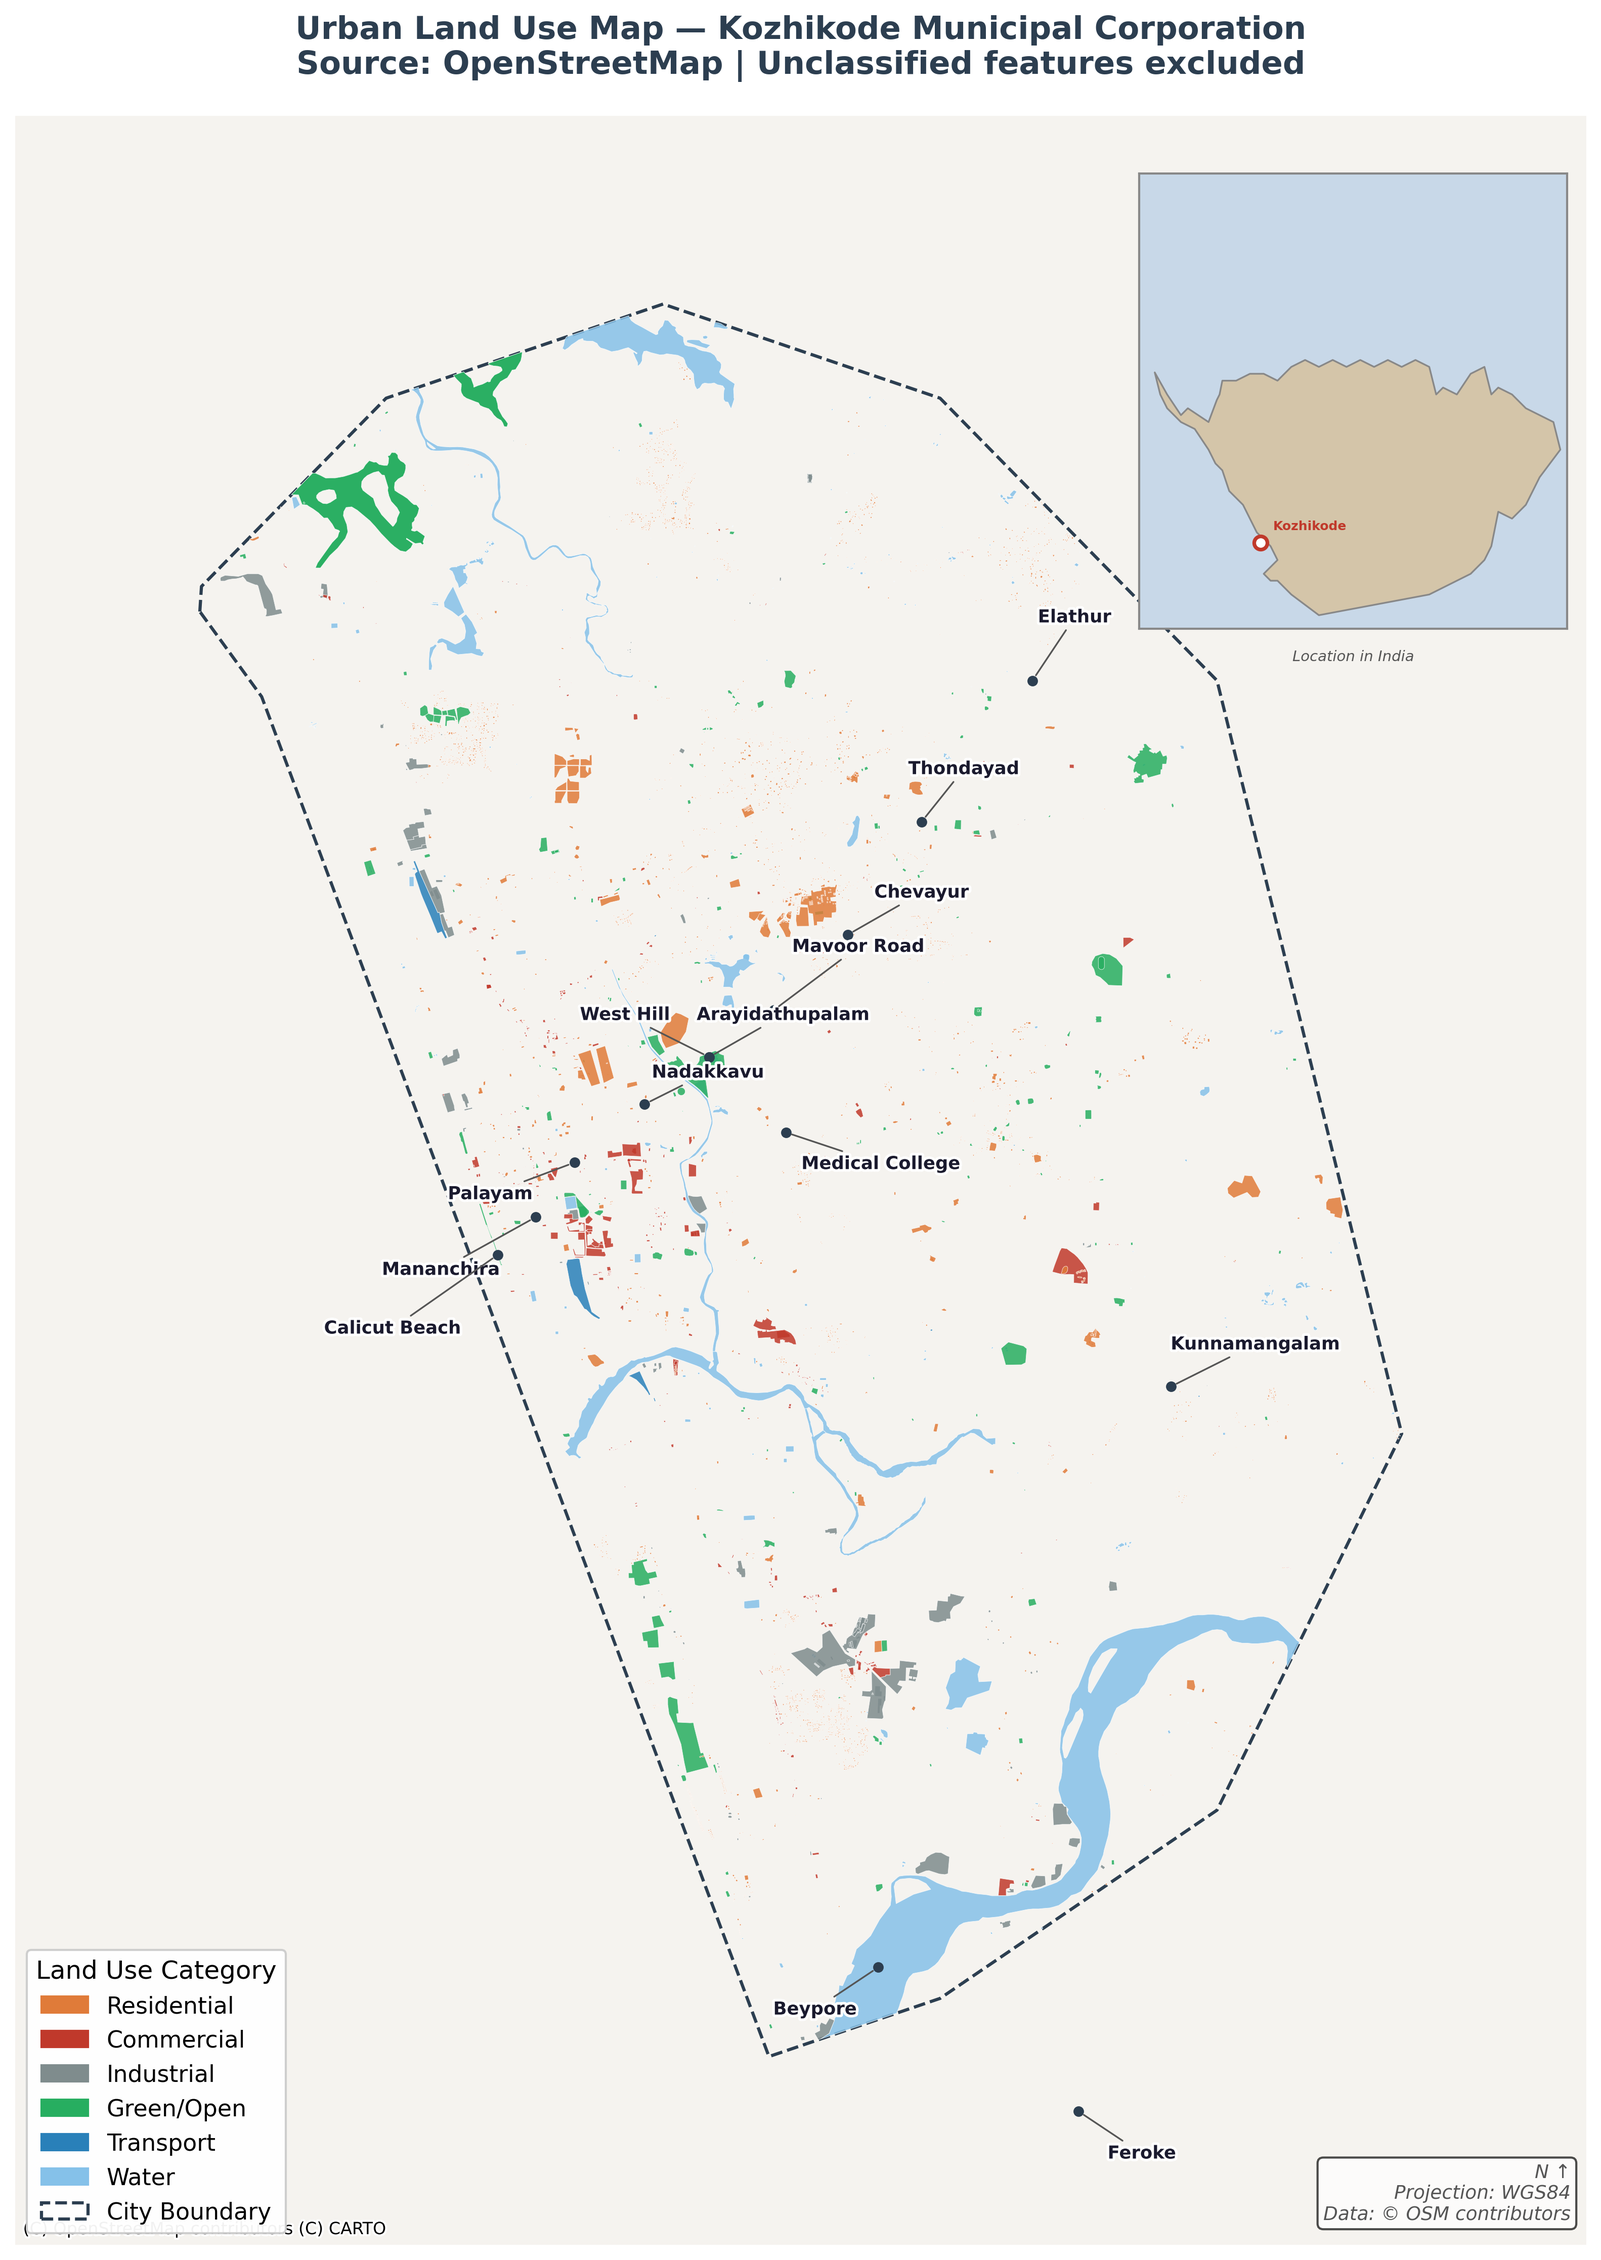
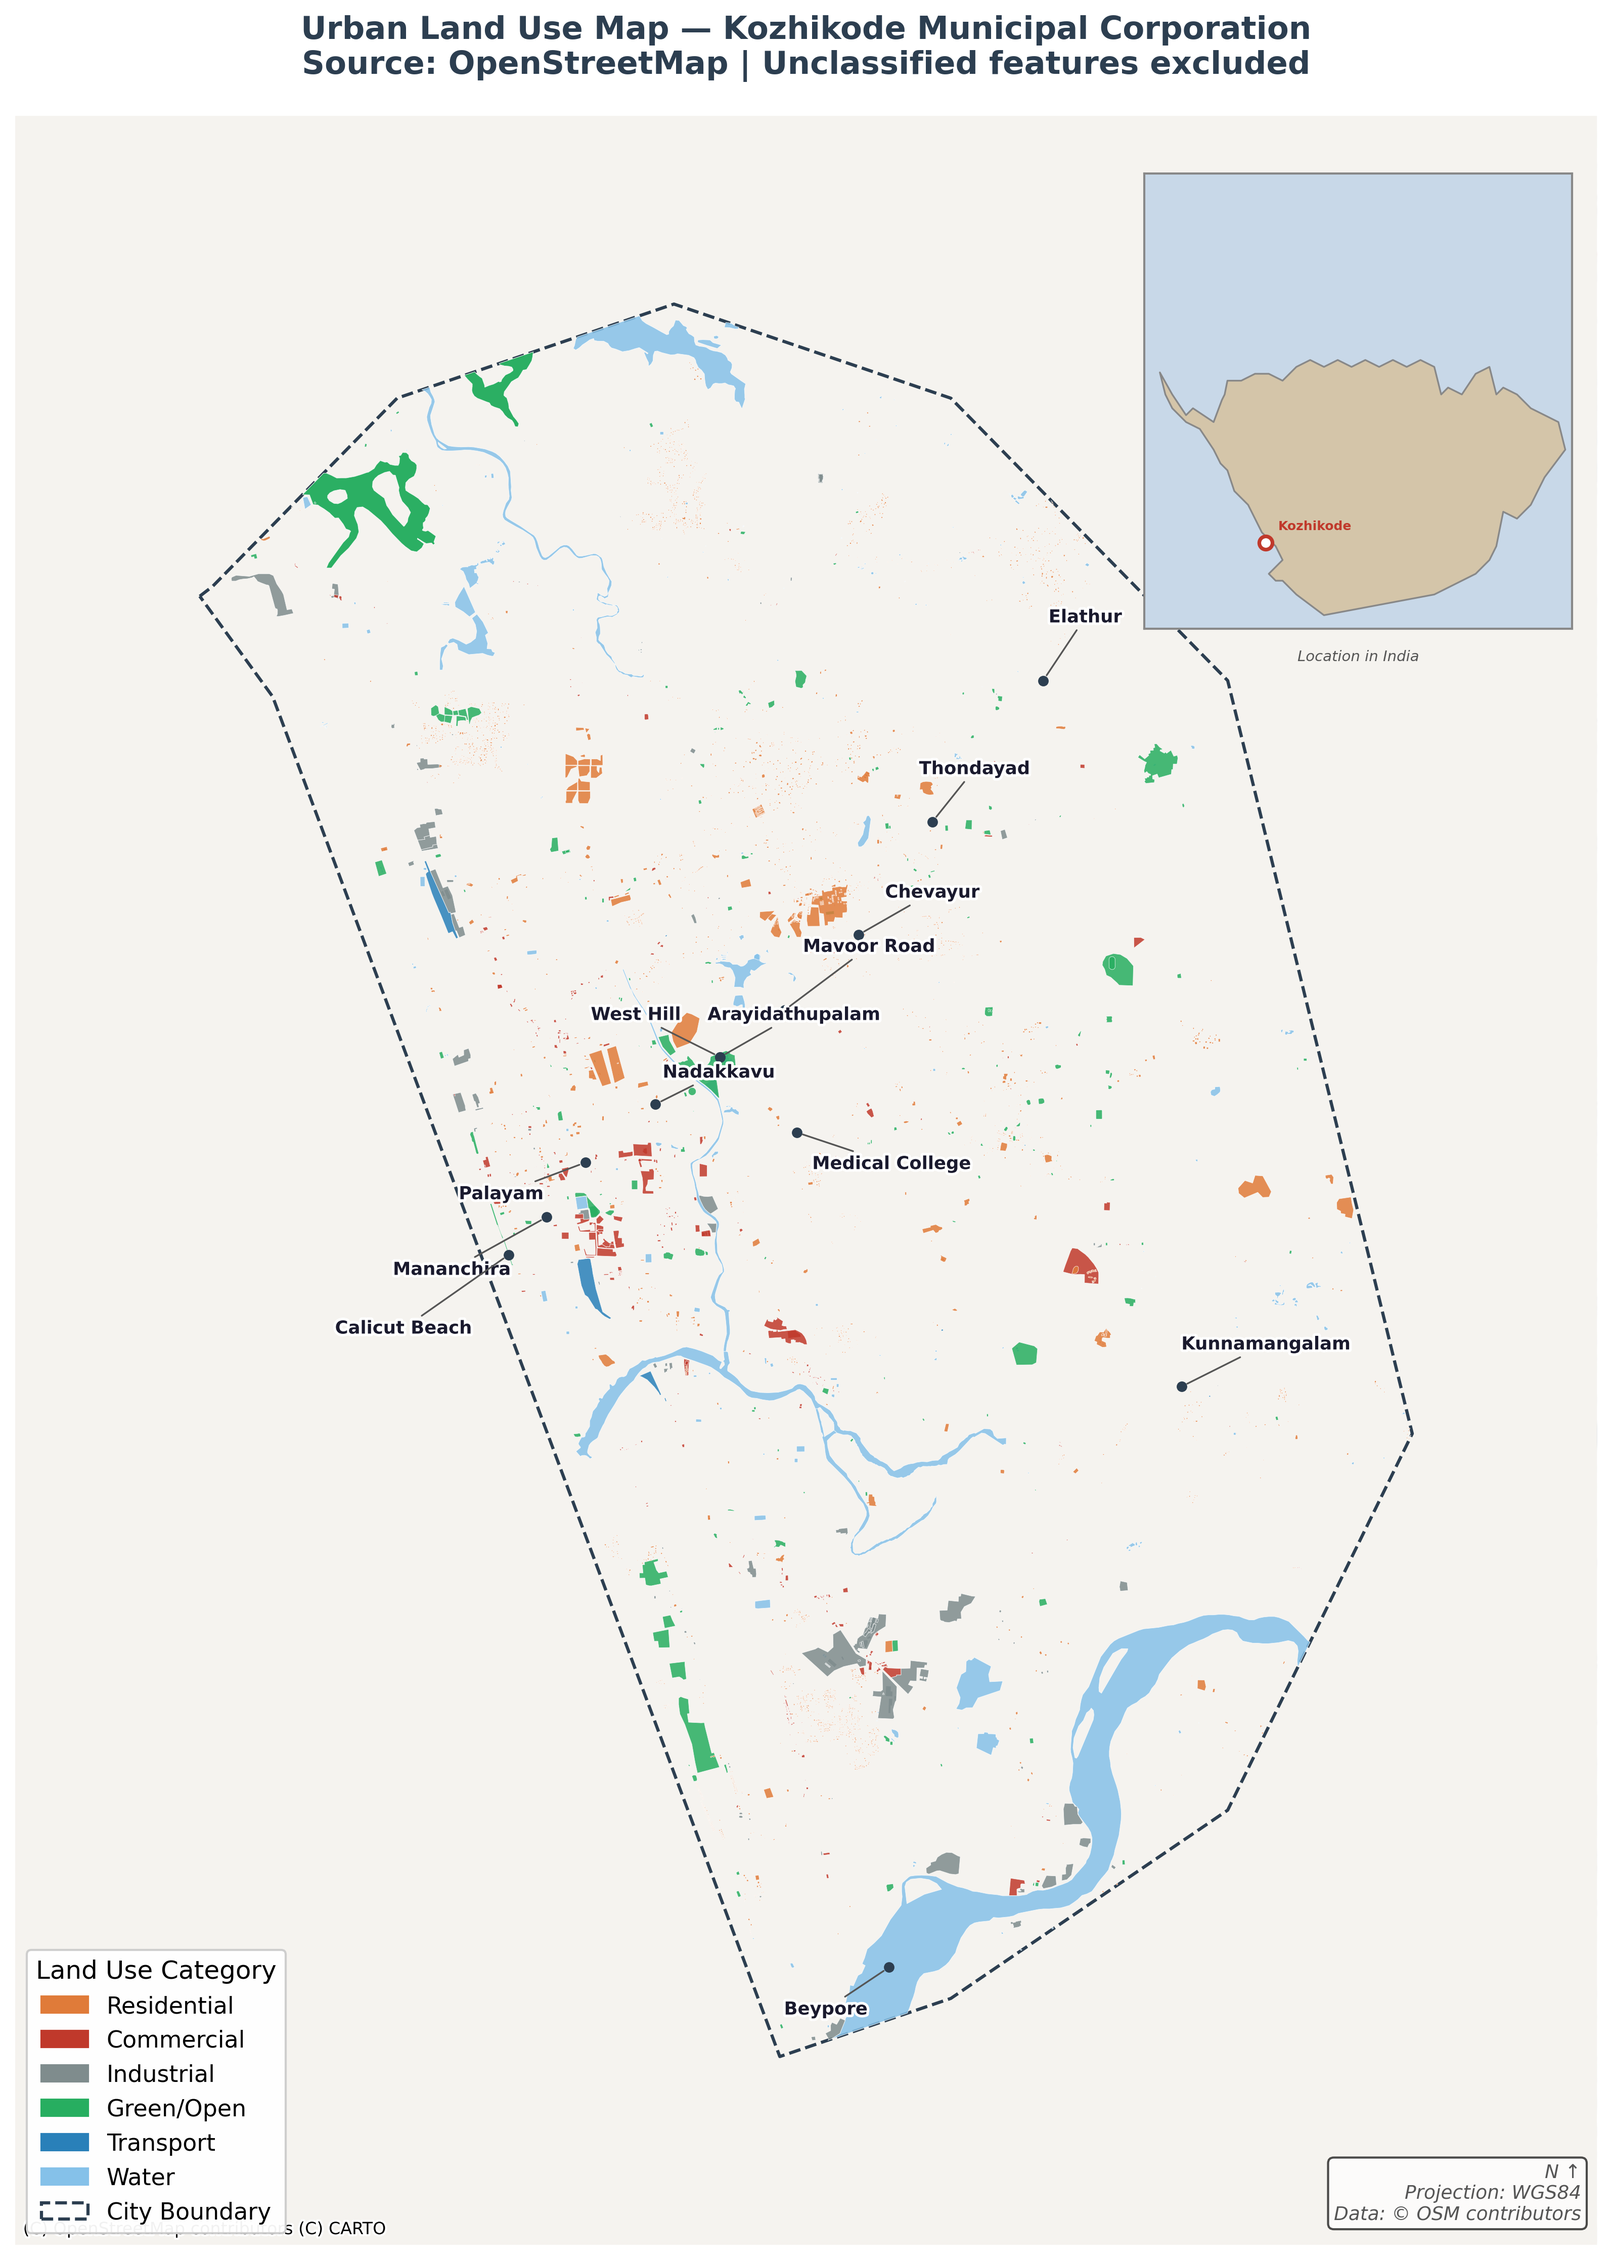
Final commit

diff --git a/Day1_Landuse_Calicut/scripts/map.py b/Day1_Landuse_Calicut/scripts/map.py
@@ -114,22 +114,22 @@ known_places = pd.DataFrame({
         'Palayam', 'Mananchira', 'Calicut Beach', 'Nadakkavu',
         'Arayidathupalam', 'Mavoor Road', 'Medical College',
         'Chevayur', 'Thondayad', 'West Hill', 'Elathur',
-        'Beypore', 'Feroke', 'Kunnamangalam'
+        'Beypore', 'Kunnamangalam'
     ],
     'lon': [
         75.7804, 75.7762, 75.7721, 75.7880,
         75.7950, 75.8020, 75.8033,
         75.8100, 75.8180, 75.7950, 75.8300,
-        75.8133, 75.8350, 75.8450
+        75.8133, 75.8450
     ],
     'lat': [
         11.2588, 11.2530, 11.2490, 11.2650,
         11.2700, 11.2750, 11.2620,
         11.2830, 11.2950, 11.2700, 11.3100,
-        11.1733, 11.1580, 11.2350
+        11.1733, 11.2350
     ],
-    'dx': [-40, -45, -50,  30,  35,  40,  45,  35,  20, -40,  20, -30,  30,  40],
-    'dy': [-15, -25, -35,  15,  20,  30, -15,  20,  25,  20,  30, -20, -20,  20]
+    'dx': [-40, -45, -50,  30,  35,  40,  45,  35,  20, -40,  20, -30,  40],
+    'dy': [-15, -25, -35,  15,  20,  30, -15,  20,  25,  20,  30, -20, 20]
 })
 
 geometry = [Point(xy) for xy in zip(known_places.lon, known_places.lat)]

diff --git a/Day1_Landuse_Calicut/README.md b/Day1_Landuse_Calicut/README.md
@@ -18,12 +18,13 @@ Approx. 118 square kilometers urban area with a population of ~600,000.
 | Ward boundaries      | OSM admin level 8       | Via osmnx                  |
 
 ## Methods
-1. Fetched OSM features (buildings, land use, amenities) using osmnx.features_from_place()
-2. Classified features into 6 categories using tag-based rules
-3. Reprojected to UTM Zone 43N (EPSG:32643) for accurate area calculation
-4. Performed spatial join with ward boundaries
-5. Calculated % area per land-use class per ward
-6. Rendered choropleth map with CartoDB Positron basemap
+1. Defined Kozhikode Municipal Corporation boundary manually using coordinate tracing, then clipped to the Arabian Sea coastline using Natural Earth land polygons to remove sea overlap
+2. Fetched OSM features (buildings, landuse, leisure, natural tags) within the boundary using osmnx.features_from_polygon() — note: features_from_place() was not used as OSM does not have KMC as a named polygon boundary
+3. Classified features into 6 categories (Residential, Commercial, Industrial, Green/Open, Transport, Water) using tag-based rules applied to landuse, building, leisure, and natural OSM attributes
+4. Reprojected to UTM Zone 43N (EPSG:32643) for accurate area calculation in square metres
+5. Spatial join with ward boundaries was not possible — OSM does not contain ward polygon data for Kozhikode Municipal Corporation; analysis was performed at city level as a single zone
+6. Calculated area and percentage share per land-use class across the full municipal boundary
+7. Rendered map with GeoPandas + Contextily using CartoDB Positron NoLabels basemap, with white mask outside city boundary and India location inset
 
 ## GIS Concepts Applied
 - Vector data loading and CRS reprojection
@@ -111,12 +112,17 @@ Q4: Missing data: What other data layers would you need to make this analysis po
 - To make this analysis genuinely policy-ready, the following additional data layers would be needed. Population density at ward or sub-ward level from the Census of India 2011 or the upcoming 2024 census, to weight the land-use findings by the number of people actually affected. Building age data to identify ageing housing stock requiring structural assessment. Floor space index or floor area ratio to understand vertical density, since a map of building footprints tells nothing about how many floors those buildings have. Road network centrality data to understand which residential clusters are well-connected versus isolated. Household income or deprivation index data from NFHS-5 or Socioeconomic Caste Census to identify which land-use zones overlap with vulnerable populations. Drainage network and elevation data from SRTM to convert the water body observations into an actual flood risk assessment. Without these layers, the current map describes what land is used for, but cannot answer who is affected, how severely, or where intervention is most urgent.
 
 Q5: Scale question: Your analysis is for the entire municipal area. Would ward-level analysis give a different picture? 
-- Ward-level analysis would give a substantially different picture and would likely reveal patterns invisible at the municipal scale. Kozhikode Municipal Corporation contains 75 wards with highly uneven land-use compositions. At the city scale, residential land appears uniformly distributed across the urban core. At the ward scale, some wards near Beypore and Feroke are likely dominated by industrial and port-related uses, while wards around Mananchira and Palayam would show higher commercial density. Wards in the northern section of the boundary near Elathur would likely show very low classification coverage, confirming that OSM tag incompleteness is concentrated in peri-urban wards rather than the historic core.
+- Ward-level analysis would give a substantially different picture and would likely reveal patterns invisible at the municipal scale. Kozhikode Municipal Corporation contains 75 wards with highly uneven land-use compositions. However, OSM does not provide ward boundary polygons for Kozhikode — the spatial join in this analysis defaulted to a single city-level zone. This itself is a significant finding: without official ward boundary data from KMC, sub-municipal analysis is not possible using open data alone. Obtaining ward shapefiles from the Kerala Local Government Department or digitising them from the official KMC ward map would be the necessary next step before any ward-level disaggregation could be attempted. 
 
 What is missing from this analysis?
 - Floor area ratio (FAR) data for density analysis
 - Temporal comparison (land use change over time)
 - Population data joined to land-use classes
+- Official KMC ward boundary polygons (not available on OSM)
+- Coastline accuracy — western boundary approximated; 
+  official Survey of India coastline data would improve precision
+- Green/Open area (62.3%) likely inflated — includes riverine 
+  vegetation and agricultural patches, not just urban green space
 
 ## Environment
 Python 3.10+, geopandas, osmnx, contextily, matplotlib
